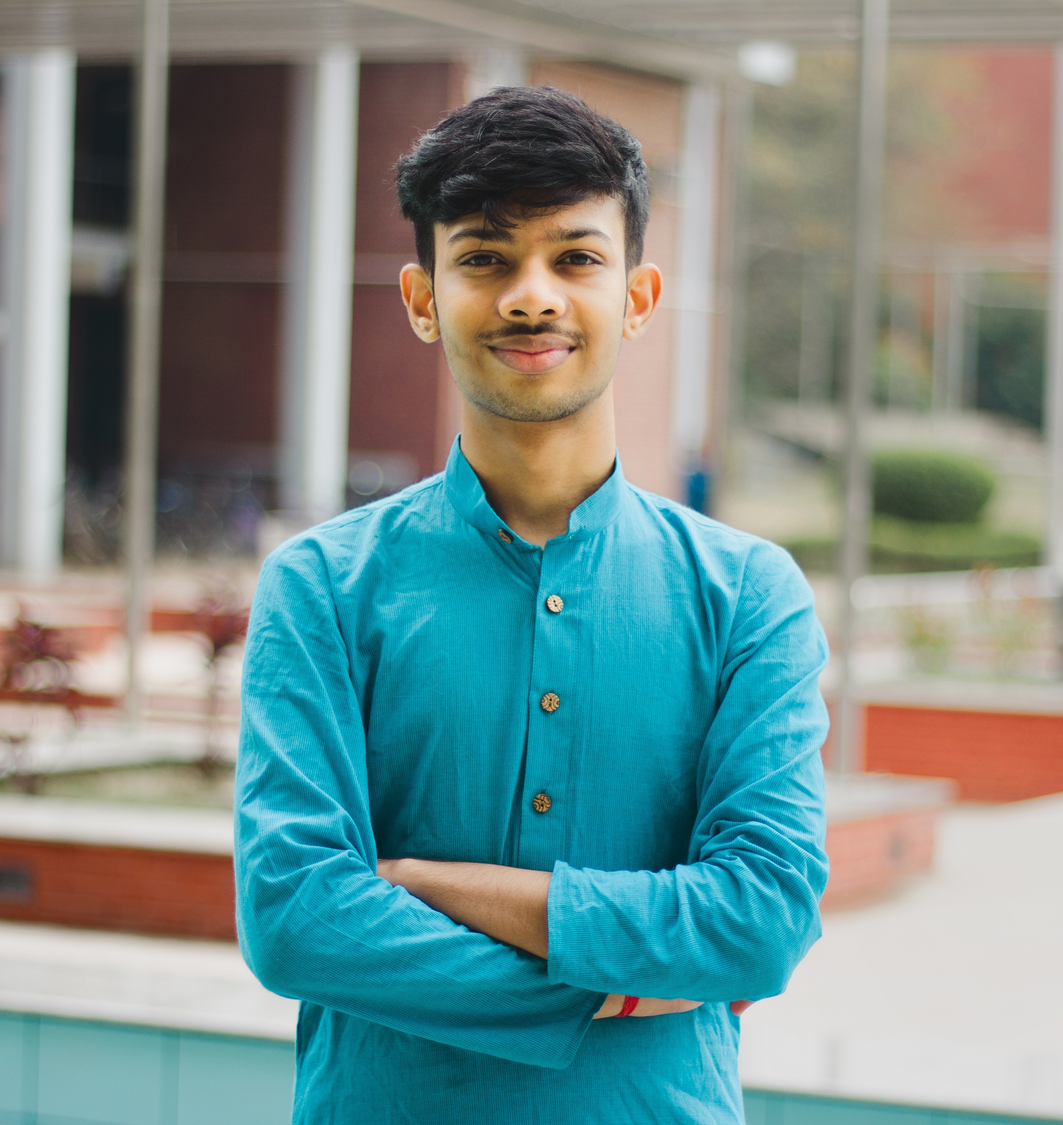
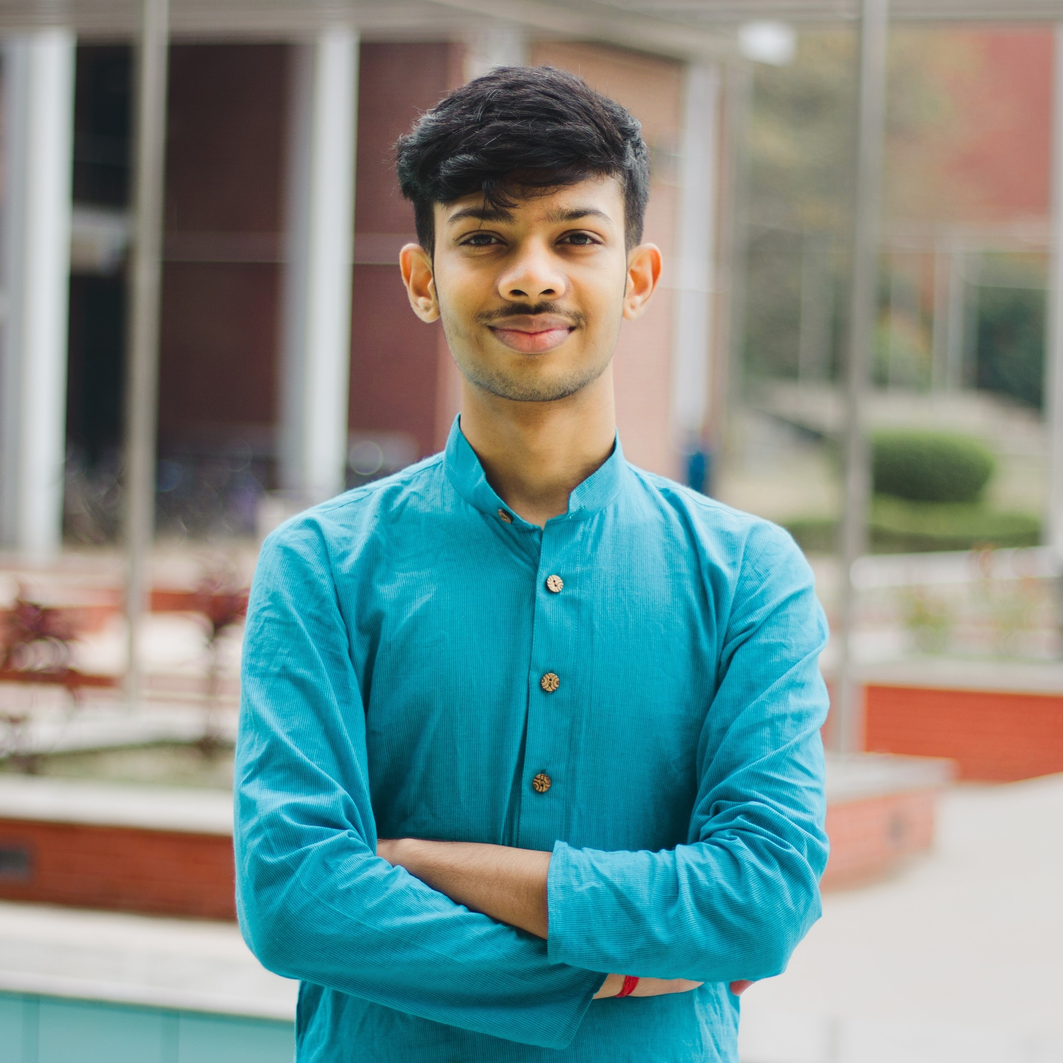
Images Corrected

diff --git a/docs/contact/index.html b/docs/contact/index.html
@@ -222,7 +222,7 @@ h1 a{color:#131313; font-weight:bold;}">
     		            			<img src="../images/contact/" alt="" class="background"/>
     		        		</div>
     		        		<div class="profile-thumb-block">
-    		            			<img src="../images/contact/Manit_Ajmera.png" alt="Manit Ajmera" class="profile"/>
+    		            			<img src="../images/contact/Manit_Ajmera.jpg" alt="Manit Ajmera" class="profile"/>
     		        		</div>
     		        		<div class="card-content">
                     				<h2>Manit Ajmera<small>UG General Secretary , Academics and Career </small></h2>
